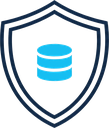
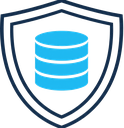
새 로고 · 로고 가공을 도구로 · IndexNow 제출 경로
로고를 네이티브로 다시 받았다(3.56:1, 부제 24.5%). 손으로 조립한 것과 비율은 같고
이음매가 없다. ⛔ 체커보드가 또 픽셀로 그려져 왔다(알파 전부 255) — 키아웃했다.

⭐ 그 가공을 `tools/build_logo.py` 로 남긴다. CLAUDE.md 에 "로고를 새로 받으면 조립을
   다시 해야 한다"고 적어 둔 공백이었다. 진단이 함께 나온다 — 부제가 머리말 크기에서
   몇 px 로 그려지는지, 8px 미만이면 막고, 우하단 워터마크 흔적도 짚는다.

`tools/indexnow.py` — 계정 없이 되는 유일한 제출 경로다. 키 파일이 소유 증명이라
`content/verify/` 에 두고, 한 곳에 보내면 참여 엔진(빙·네이버 등)에 전파된다.
⛔ 구글은 IndexNow 를 쓰지 않는다 — Search Console 로만 간다.
⚠ 알리는 것이지 색인을 보장하지 않는다.

diff --git a/docs/ko/news/2026-05-physical-security-contract/index.html b/docs/ko/news/2026-05-physical-security-contract/index.html
@@ -32,9 +32,9 @@
 <body data-lang="ko">
 <a class="skip" href="#main">본문으로 건너뛰기</a>
 <nav class="nav">
-<a href="/ko/" class="nav-brand"><img src="/assets/brand/logo.png?v=9e0ed86ad1"
- srcset="/assets/brand/logo@2x.png?v=bb61d13687 2x" alt="AIDSRC — 인공지능데이터보안연구센터"
- width="450" height="128"></a>
+<a href="/ko/" class="nav-brand"><img src="/assets/brand/logo.png?v=481034e65b"
+ srcset="/assets/brand/logo@2x.png?v=aa303401d7 2x" alt="AIDSRC — 인공지능데이터보안연구센터"
+ width="456" height="128"></a>
 <div class="navlinks"><a href="/ko/">센터 소개</a><a href="/ko/research/">연구</a><a href="/ko/people/">구성원</a><a href="/ko/news/" aria-current="page">소식</a><a href="/ko/collaborate/">협력</a><a href="/ko/visit/">찾아오시는 길</a></div>
 <div class="seg langseg" role="group" aria-label="언어"><a class="seg-opt" hreflang="en" href="/en/news/2026-05-physical-security-contract/">EN</a><a class="seg-opt is-on" hreflang="ko" href="/ko/news/2026-05-physical-security-contract/" aria-current="true">한국어</a></div>
 <a class="btn btn-primary" href="/ko/collaborate/#contact">문의하기</a>

diff --git a/docs/ko/news/2026-08-site-open/index.html b/docs/ko/news/2026-08-site-open/index.html
@@ -32,9 +32,9 @@
 <body data-lang="ko">
 <a class="skip" href="#main">본문으로 건너뛰기</a>
 <nav class="nav">
-<a href="/ko/" class="nav-brand"><img src="/assets/brand/logo.png?v=9e0ed86ad1"
- srcset="/assets/brand/logo@2x.png?v=bb61d13687 2x" alt="AIDSRC — 인공지능데이터보안연구센터"
- width="450" height="128"></a>
+<a href="/ko/" class="nav-brand"><img src="/assets/brand/logo.png?v=481034e65b"
+ srcset="/assets/brand/logo@2x.png?v=aa303401d7 2x" alt="AIDSRC — 인공지능데이터보안연구센터"
+ width="456" height="128"></a>
 <div class="navlinks"><a href="/ko/">센터 소개</a><a href="/ko/research/">연구</a><a href="/ko/people/">구성원</a><a href="/ko/news/" aria-current="page">소식</a><a href="/ko/collaborate/">협력</a><a href="/ko/visit/">찾아오시는 길</a></div>
 <div class="seg langseg" role="group" aria-label="언어"><a class="seg-opt" hreflang="en" href="/en/news/2026-08-site-open/">EN</a><a class="seg-opt is-on" hreflang="ko" href="/ko/news/2026-08-site-open/" aria-current="true">한국어</a></div>
 <a class="btn btn-primary" href="/ko/collaborate/#contact">문의하기</a>

diff --git a/docs/en/news/2026-05-physical-security-contract/index.html b/docs/en/news/2026-05-physical-security-contract/index.html
@@ -32,9 +32,9 @@
 <body data-lang="en">
 <a class="skip" href="#main">Skip to content</a>
 <nav class="nav">
-<a href="/en/" class="nav-brand"><img src="/assets/brand/logo.png?v=9e0ed86ad1"
- srcset="/assets/brand/logo@2x.png?v=bb61d13687 2x" alt="AIDSRC — AI Data and Security Research Center"
- width="450" height="128"></a>
+<a href="/en/" class="nav-brand"><img src="/assets/brand/logo.png?v=481034e65b"
+ srcset="/assets/brand/logo@2x.png?v=aa303401d7 2x" alt="AIDSRC — AI Data and Security Research Center"
+ width="456" height="128"></a>
 <div class="navlinks"><a href="/en/">Overview</a><a href="/en/research/">Research</a><a href="/en/people/">People</a><a href="/en/news/" aria-current="page">News</a><a href="/en/collaborate/">Collaborate</a><a href="/en/visit/">Visit</a></div>
 <div class="seg langseg" role="group" aria-label="Language"><a class="seg-opt is-on" hreflang="en" href="/en/news/2026-05-physical-security-contract/" aria-current="true">EN</a><a class="seg-opt" hreflang="ko" href="/ko/news/2026-05-physical-security-contract/">한국어</a></div>
 <a class="btn btn-primary" href="/en/collaborate/#contact">Contact</a>

diff --git a/docs/ko/collaborate/index.html b/docs/ko/collaborate/index.html
@@ -31,9 +31,9 @@
 <body data-lang="ko">
 <a class="skip" href="#main">본문으로 건너뛰기</a>
 <nav class="nav">
-<a href="/ko/" class="nav-brand"><img src="/assets/brand/logo.png?v=9e0ed86ad1"
- srcset="/assets/brand/logo@2x.png?v=bb61d13687 2x" alt="AIDSRC — 인공지능데이터보안연구센터"
- width="450" height="128"></a>
+<a href="/ko/" class="nav-brand"><img src="/assets/brand/logo.png?v=481034e65b"
+ srcset="/assets/brand/logo@2x.png?v=aa303401d7 2x" alt="AIDSRC — 인공지능데이터보안연구센터"
+ width="456" height="128"></a>
 <div class="navlinks"><a href="/ko/">센터 소개</a><a href="/ko/research/">연구</a><a href="/ko/people/">구성원</a><a href="/ko/news/">소식</a><a href="/ko/collaborate/" aria-current="page">협력</a><a href="/ko/visit/">찾아오시는 길</a></div>
 <div class="seg langseg" role="group" aria-label="언어"><a class="seg-opt" hreflang="en" href="/en/collaborate/">EN</a><a class="seg-opt is-on" hreflang="ko" href="/ko/collaborate/" aria-current="true">한국어</a></div>
 <a class="btn btn-primary" href="/ko/collaborate/#contact">문의하기</a>

diff --git a/docs/ko/research/index.html b/docs/ko/research/index.html
@@ -31,9 +31,9 @@
 <body data-lang="ko">
 <a class="skip" href="#main">본문으로 건너뛰기</a>
 <nav class="nav">
-<a href="/ko/" class="nav-brand"><img src="/assets/brand/logo.png?v=9e0ed86ad1"
- srcset="/assets/brand/logo@2x.png?v=bb61d13687 2x" alt="AIDSRC — 인공지능데이터보안연구센터"
- width="450" height="128"></a>
+<a href="/ko/" class="nav-brand"><img src="/assets/brand/logo.png?v=481034e65b"
+ srcset="/assets/brand/logo@2x.png?v=aa303401d7 2x" alt="AIDSRC — 인공지능데이터보안연구센터"
+ width="456" height="128"></a>
 <div class="navlinks"><a href="/ko/">센터 소개</a><a href="/ko/research/" aria-current="page">연구</a><a href="/ko/people/">구성원</a><a href="/ko/news/">소식</a><a href="/ko/collaborate/">협력</a><a href="/ko/visit/">찾아오시는 길</a></div>
 <div class="seg langseg" role="group" aria-label="언어"><a class="seg-opt" hreflang="en" href="/en/research/">EN</a><a class="seg-opt is-on" hreflang="ko" href="/ko/research/" aria-current="true">한국어</a></div>
 <a class="btn btn-primary" href="/ko/collaborate/#contact">문의하기</a>

diff --git a/docs/ko/people/index.html b/docs/ko/people/index.html
@@ -31,9 +31,9 @@
 <body data-lang="ko">
 <a class="skip" href="#main">본문으로 건너뛰기</a>
 <nav class="nav">
-<a href="/ko/" class="nav-brand"><img src="/assets/brand/logo.png?v=9e0ed86ad1"
- srcset="/assets/brand/logo@2x.png?v=bb61d13687 2x" alt="AIDSRC — 인공지능데이터보안연구센터"
- width="450" height="128"></a>
+<a href="/ko/" class="nav-brand"><img src="/assets/brand/logo.png?v=481034e65b"
+ srcset="/assets/brand/logo@2x.png?v=aa303401d7 2x" alt="AIDSRC — 인공지능데이터보안연구센터"
+ width="456" height="128"></a>
 <div class="navlinks"><a href="/ko/">센터 소개</a><a href="/ko/research/">연구</a><a href="/ko/people/" aria-current="page">구성원</a><a href="/ko/news/">소식</a><a href="/ko/collaborate/">협력</a><a href="/ko/visit/">찾아오시는 길</a></div>
 <div class="seg langseg" role="group" aria-label="언어"><a class="seg-opt" hreflang="en" href="/en/people/">EN</a><a class="seg-opt is-on" hreflang="ko" href="/ko/people/" aria-current="true">한국어</a></div>
 <a class="btn btn-primary" href="/ko/collaborate/#contact">문의하기</a>

diff --git a/docs/ko/visit/index.html b/docs/ko/visit/index.html
@@ -31,9 +31,9 @@
 <body data-lang="ko">
 <a class="skip" href="#main">본문으로 건너뛰기</a>
 <nav class="nav">
-<a href="/ko/" class="nav-brand"><img src="/assets/brand/logo.png?v=9e0ed86ad1"
- srcset="/assets/brand/logo@2x.png?v=bb61d13687 2x" alt="AIDSRC — 인공지능데이터보안연구센터"
- width="450" height="128"></a>
+<a href="/ko/" class="nav-brand"><img src="/assets/brand/logo.png?v=481034e65b"
+ srcset="/assets/brand/logo@2x.png?v=aa303401d7 2x" alt="AIDSRC — 인공지능데이터보안연구센터"
+ width="456" height="128"></a>
 <div class="navlinks"><a href="/ko/">센터 소개</a><a href="/ko/research/">연구</a><a href="/ko/people/">구성원</a><a href="/ko/news/">소식</a><a href="/ko/collaborate/">협력</a><a href="/ko/visit/" aria-current="page">찾아오시는 길</a></div>
 <div class="seg langseg" role="group" aria-label="언어"><a class="seg-opt" hreflang="en" href="/en/visit/">EN</a><a class="seg-opt is-on" hreflang="ko" href="/ko/visit/" aria-current="true">한국어</a></div>
 <a class="btn btn-primary" href="/ko/collaborate/#contact">문의하기</a>

diff --git a/docs/en/news/2026-08-site-open/index.html b/docs/en/news/2026-08-site-open/index.html
@@ -32,9 +32,9 @@
 <body data-lang="en">
 <a class="skip" href="#main">Skip to content</a>
 <nav class="nav">
-<a href="/en/" class="nav-brand"><img src="/assets/brand/logo.png?v=9e0ed86ad1"
- srcset="/assets/brand/logo@2x.png?v=bb61d13687 2x" alt="AIDSRC — AI Data and Security Research Center"
- width="450" height="128"></a>
+<a href="/en/" class="nav-brand"><img src="/assets/brand/logo.png?v=481034e65b"
+ srcset="/assets/brand/logo@2x.png?v=aa303401d7 2x" alt="AIDSRC — AI Data and Security Research Center"
+ width="456" height="128"></a>
 <div class="navlinks"><a href="/en/">Overview</a><a href="/en/research/">Research</a><a href="/en/people/">People</a><a href="/en/news/" aria-current="page">News</a><a href="/en/collaborate/">Collaborate</a><a href="/en/visit/">Visit</a></div>
 <div class="seg langseg" role="group" aria-label="Language"><a class="seg-opt is-on" hreflang="en" href="/en/news/2026-08-site-open/" aria-current="true">EN</a><a class="seg-opt" hreflang="ko" href="/ko/news/2026-08-site-open/">한국어</a></div>
 <a class="btn btn-primary" href="/en/collaborate/#contact">Contact</a>

diff --git a/docs/ko/news/index.html b/docs/ko/news/index.html
@@ -31,9 +31,9 @@
 <body data-lang="ko">
 <a class="skip" href="#main">본문으로 건너뛰기</a>
 <nav class="nav">
-<a href="/ko/" class="nav-brand"><img src="/assets/brand/logo.png?v=9e0ed86ad1"
- srcset="/assets/brand/logo@2x.png?v=bb61d13687 2x" alt="AIDSRC — 인공지능데이터보안연구센터"
- width="450" height="128"></a>
+<a href="/ko/" class="nav-brand"><img src="/assets/brand/logo.png?v=481034e65b"
+ srcset="/assets/brand/logo@2x.png?v=aa303401d7 2x" alt="AIDSRC — 인공지능데이터보안연구센터"
+ width="456" height="128"></a>
 <div class="navlinks"><a href="/ko/">센터 소개</a><a href="/ko/research/">연구</a><a href="/ko/people/">구성원</a><a href="/ko/news/" aria-current="page">소식</a><a href="/ko/collaborate/">협력</a><a href="/ko/visit/">찾아오시는 길</a></div>
 <div class="seg langseg" role="group" aria-label="언어"><a class="seg-opt" hreflang="en" href="/en/news/">EN</a><a class="seg-opt is-on" hreflang="ko" href="/ko/news/" aria-current="true">한국어</a></div>
 <a class="btn btn-primary" href="/ko/collaborate/#contact">문의하기</a>

diff --git a/docs/ko/index.html b/docs/ko/index.html
@@ -32,9 +32,9 @@
 <body data-lang="ko">
 <a class="skip" href="#main">본문으로 건너뛰기</a>
 <nav class="nav">
-<a href="/ko/" class="nav-brand"><img src="/assets/brand/logo.png?v=9e0ed86ad1"
- srcset="/assets/brand/logo@2x.png?v=bb61d13687 2x" alt="AIDSRC — 인공지능데이터보안연구센터"
- width="450" height="128"></a>
+<a href="/ko/" class="nav-brand"><img src="/assets/brand/logo.png?v=481034e65b"
+ srcset="/assets/brand/logo@2x.png?v=aa303401d7 2x" alt="AIDSRC — 인공지능데이터보안연구센터"
+ width="456" height="128"></a>
 <div class="navlinks"><a href="/ko/" aria-current="page">센터 소개</a><a href="/ko/research/">연구</a><a href="/ko/people/">구성원</a><a href="/ko/news/">소식</a><a href="/ko/collaborate/">협력</a><a href="/ko/visit/">찾아오시는 길</a></div>
 <div class="seg langseg" role="group" aria-label="언어"><a class="seg-opt" hreflang="en" href="/en/">EN</a><a class="seg-opt is-on" hreflang="ko" href="/ko/" aria-current="true">한국어</a></div>
 <a class="btn btn-primary" href="/ko/collaborate/#contact">문의하기</a>

diff --git a/docs/en/collaborate/index.html b/docs/en/collaborate/index.html
@@ -31,9 +31,9 @@
 <body data-lang="en">
 <a class="skip" href="#main">Skip to content</a>
 <nav class="nav">
-<a href="/en/" class="nav-brand"><img src="/assets/brand/logo.png?v=9e0ed86ad1"
- srcset="/assets/brand/logo@2x.png?v=bb61d13687 2x" alt="AIDSRC — AI Data and Security Research Center"
- width="450" height="128"></a>
+<a href="/en/" class="nav-brand"><img src="/assets/brand/logo.png?v=481034e65b"
+ srcset="/assets/brand/logo@2x.png?v=aa303401d7 2x" alt="AIDSRC — AI Data and Security Research Center"
+ width="456" height="128"></a>
 <div class="navlinks"><a href="/en/">Overview</a><a href="/en/research/">Research</a><a href="/en/people/">People</a><a href="/en/news/">News</a><a href="/en/collaborate/" aria-current="page">Collaborate</a><a href="/en/visit/">Visit</a></div>
 <div class="seg langseg" role="group" aria-label="Language"><a class="seg-opt is-on" hreflang="en" href="/en/collaborate/" aria-current="true">EN</a><a class="seg-opt" hreflang="ko" href="/ko/collaborate/">한국어</a></div>
 <a class="btn btn-primary" href="/en/collaborate/#contact">Contact</a>

diff --git a/docs/en/research/index.html b/docs/en/research/index.html
@@ -31,9 +31,9 @@
 <body data-lang="en">
 <a class="skip" href="#main">Skip to content</a>
 <nav class="nav">
-<a href="/en/" class="nav-brand"><img src="/assets/brand/logo.png?v=9e0ed86ad1"
- srcset="/assets/brand/logo@2x.png?v=bb61d13687 2x" alt="AIDSRC — AI Data and Security Research Center"
- width="450" height="128"></a>
+<a href="/en/" class="nav-brand"><img src="/assets/brand/logo.png?v=481034e65b"
+ srcset="/assets/brand/logo@2x.png?v=aa303401d7 2x" alt="AIDSRC — AI Data and Security Research Center"
+ width="456" height="128"></a>
 <div class="navlinks"><a href="/en/">Overview</a><a href="/en/research/" aria-current="page">Research</a><a href="/en/people/">People</a><a href="/en/news/">News</a><a href="/en/collaborate/">Collaborate</a><a href="/en/visit/">Visit</a></div>
 <div class="seg langseg" role="group" aria-label="Language"><a class="seg-opt is-on" hreflang="en" href="/en/research/" aria-current="true">EN</a><a class="seg-opt" hreflang="ko" href="/ko/research/">한국어</a></div>
 <a class="btn btn-primary" href="/en/collaborate/#contact">Contact</a>
